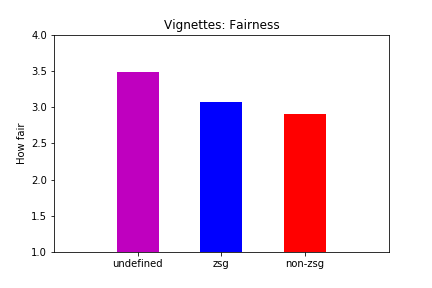
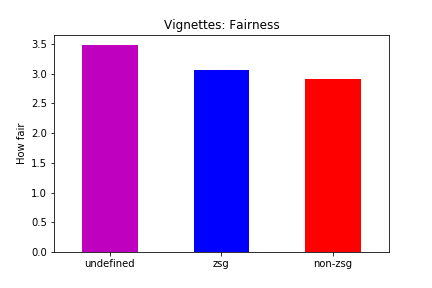
new graphs added to production

diff --git a/statistics/analyse_data.py b/statistics/analyse_data.py
@@ -5,12 +5,14 @@ import seaborn as sns
 import statsmodels.api as sm
 
 import statsmodels.formula.api as smf
-
+import statsmodels.api as sm
+import statsmodels
 from sklearn.datasets import load_iris
 
 
 
 df = pd.read_csv('cleaned_data.csv')
+vignette_names = ['undefined', 'zsg', 'non-zsg']
 
 #create useful columns
 df['counter'] = 1
@@ -27,29 +29,98 @@ df['zero_redist1'] = np.where(df['undefined_question_3'] == df['zsg_question_3']
 df['zero_redist'] = np.where(df['zero_redist'] + df['zero_redist1'] == 2, 1, 0)
 redist1 = df[df['zero_redist'] == 1 ]
 redist1[redist1['zsg_question_3'] != 0]
-df.groupby('zero_redist').mean()
 
 #drop less interesting columns
-drop_cols = []
+    drop_cols = []
 drop_cols = [c for c in df.columns if c.lower()[:4] in ['bzsg', 'redi']]
 drop_cols.remove('bzsg_factor')
 drop_cols.remove('redist_factor')
-
+df
 drop_cols.append('Unnamed: 0')
 drop_cols.append('zero_redist1')
 df = df.drop(columns=drop_cols)
-
-
-
+df['bzsg_factor'].mean()
+df['nredist_avg'].min()
+df['bzsg_factor']= -df['bzsg_factor']/3.887762
+df['redist_factor'] = df['redist_factor']/1.871011
 #stata code
-mod = smf.ols(formula='avg_redist_amount ~ bzsg_factor', data=df)
+mod = smf.ols(formula='undefined_question_3 ~ bzsg_factor', data=df)
 
 res = mod.fit()
 print(res.summary())
 
 
+mod = smf.ols(formula='redist_factor ~ age + C(gender) + C(education) + C(field_of_work) + C(nationality) + C(political_party) +bzsg_factor ', data=df)
 
+res = mod.fit()
+print(res.summary())
+mod = smf.ols(formula='nzsg_question_3 ~ nbzsg_avg ', data=df)
+
+res = mod.fit()
+print(res.summary())
+
+mod = smf.ols(formula='nzsg_question_3 ~ bzsg_factor ', data=df)
+
+res = mod.fit()
+print(res.summary())
+
+logit = sm.Logit(df['undefined_question_2'], sm.add_constant(df[[ 'bzsg_factor']]))
+res1 = logit.fit()
+print(res1.summary())
+df['undefined_question_2'].mean()
+sm.add_constant(df[[ 'bzsg_factor']])
+df['undefined_question_1'].max()
+#redistributed amount means
+
+#Vignette: Fairness
+ax = df[['undefined_question_1', 'zsg_question_1', 'nzsg_question_1']].mean().plot(kind='bar', y='counter', color=['m', 'blue', 'red' ])
+ax.set_title('Vignettes: Fairness')
+ax.set_ylabel('How fair')
+ax.set_xticklabels(vignette_names, rotation=0)
+#ax.set(xlim=(-1, 3), ylim=(1, 4))
+ax.figure
+ax.get_figure().savefig('statistics/output/graphs/Vigenttes_Fairness.png')
+
+#Vignttes want to redistribute
+ax1 = df[['undefined_question_2', 'zsg_question_2', 'nzsg_question_2']].mean().plot(kind='bar', y='counter', color=['m', 'blue', 'red' ])
+ax1.set_title('Vignettes: Redistribute')
+ax1.set_ylabel('Fraction')
+ax1.set_xticklabels(vignette_names, rotation=0)
+#ax1.set(xlim=(-1, 3), ylim=(1, 4))
+ax.figure
+ax1.get_figure().savefig('statistics/output/graphs/Vigenttes_Redistribute.png')
+
+#Vignettes mean redistributed amount
+ax2 = df[['undefined_question_3', 'zsg_question_3', 'nzsg_question_3']].mean().plot(kind='bar', color=['m', 'blue', 'red' ])
+ax2.set_title('Vignettes: Mean Redistributed Amount')
+ax2.set_ylabel('Fraction')
+ax2.set_xticklabels(vignette_names, rotation=0)
+#ax1.set(xlim=(-1, 3), ylim=(1, 4))
+ax2.figure
+ax2.get_figure().savefig('statistics/output/graphs/Vigenttes_Mean_Redistributed_Amount.png')
+
+#Vignettes Updated redistributed amount
+ax3 = df[['undefined_question_4', 'zsg_question_4', 'nzsg_question_4']].mean().plot(kind='bar', color=['m', 'blue', 'red' ])
+ax3.set_title('Vignettes: Mean Redistributed Amount')
+ax3.set_ylabel('Fraction')
+ax3.set_xticklabels(vignette_names, rotation=0)
+#ax1.set(xlim=(-1, 3), ylim=(1, 4))
+ax3.figure
+ax3.get_figure().savefig('statistics/output/graphs/Vigenttes_Updated_Mean_Redistributed_Amount.png')
+
+type(ax)
+df.mean()
+df[['undefined_question_3', 'zsg_question_3', 'nzsg_question_3']].mean().plot(kind='bar', y='counter', color=['m', 'blue', 'red' ])
+df[['undefined_question_4', 'zsg_question_4', 'nzsg_question_4']].mean().plot(kind='bar', y='counter', color=['m', 'blue', 'red' ], label =['a', 'b', 'c'])
+
+redistributed amount distribution
+df[df['undefined_question_2'] == 1]['undefined_question_3'].plot.hist(bins=8)
+df[df['zsg_question_2'] == 1]['zsg_question_3'].plot.hist(bins=7)
+df[df['nzsg_question_2'] == 1]['nzsg_question_3'].plot.hist(bins=7)
 #averages and correlations
+
+
+
 
 df.groupby('gender').mean()
 df.groupby('nationality').mean()
